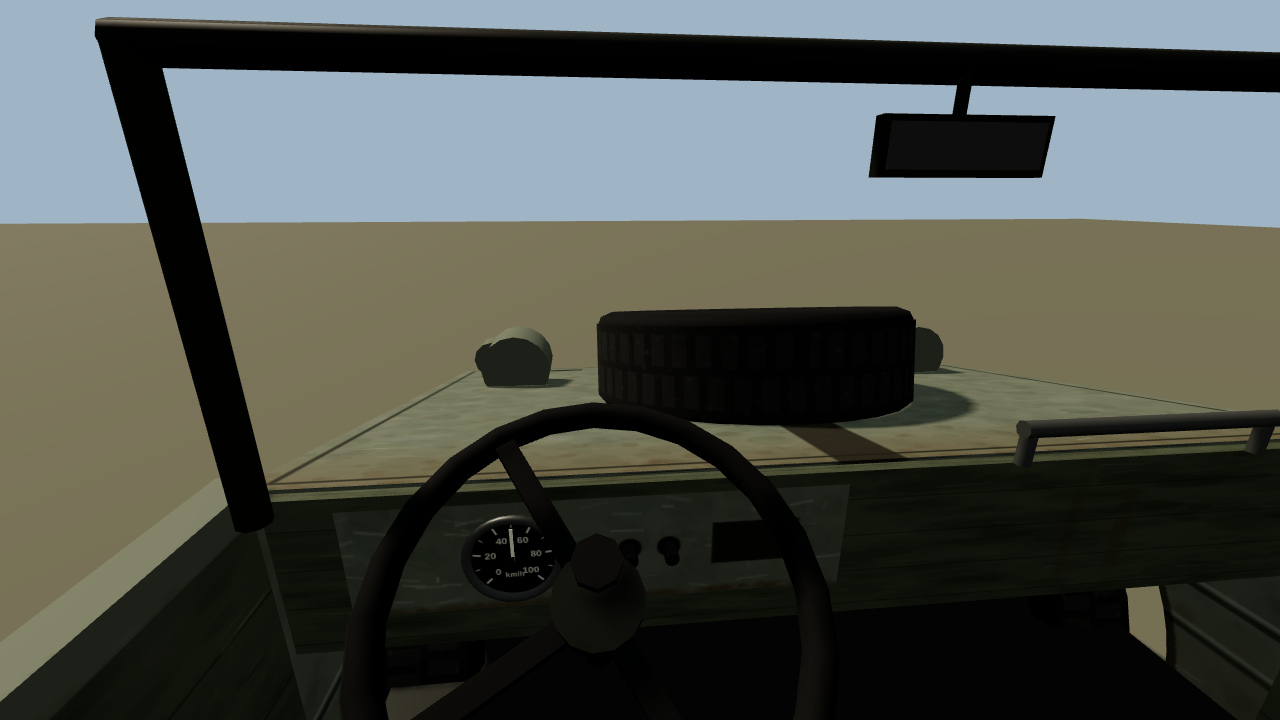
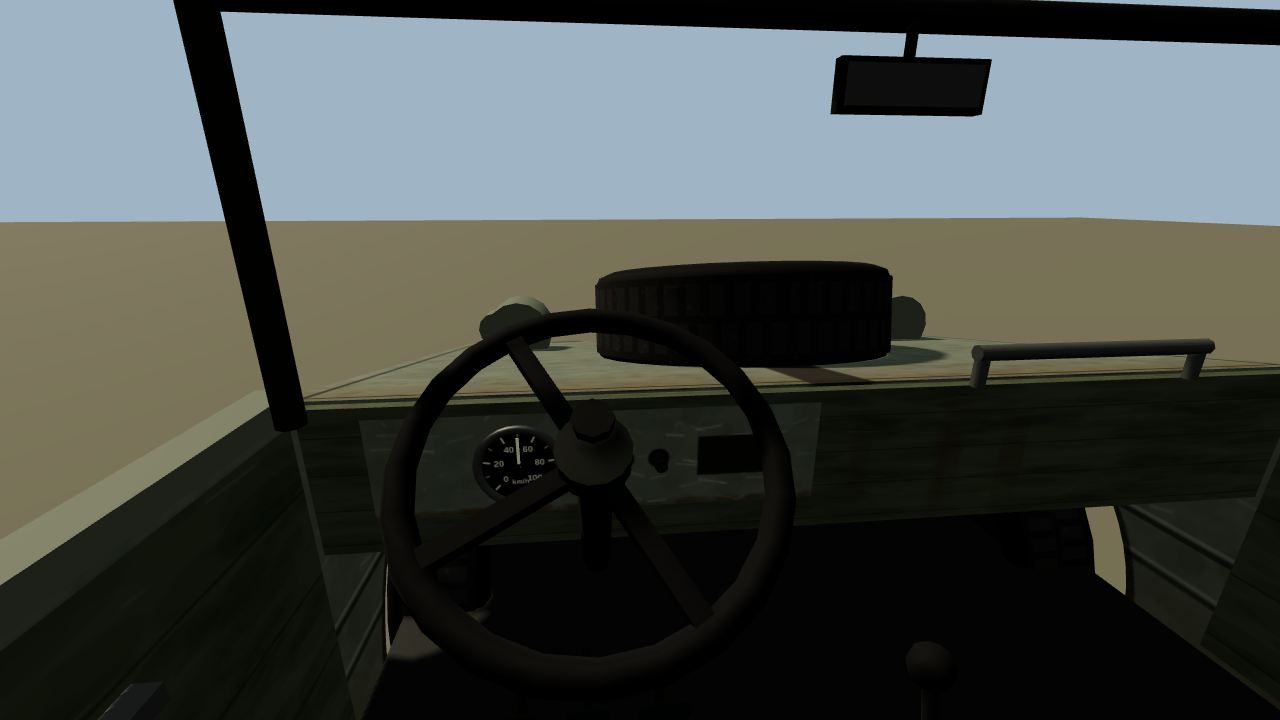
Interieurs nagelopen: de ambulance met het stuur vóór je, de bus zonder balk door de voorruit, een ronde pook, spiegelglas, de stafauto verder van het stuur; binnentest en binnenshots (stap 146)
Claude-Session: https://claude.ai/code/session_01Qq4V9hLBj33ACehDrT6xv8

diff --git a/js/carmodel.js b/js/carmodel.js
@@ -424,7 +424,12 @@ function autoGeoms(kind) {
      te herkennen is. Een negatieve kanteling om de x-as zet de voorkant omlaag
      (y' = z·sin θ voor de voorste rand op −z).
     */
-    { geo: rdoos(W - 0.20, 0.11, kapL, 0.05), y: schouderY + (bus ? 0.30 : (bx ? -0.02 : 0.02)), z: kapZ, rx: bx ? -0.085 : 0 }, // motorkap
+    /*
+     (stap 146) De bus had zijn motorkap op schouderY + 0,30 (1,80 m): 30 cm boven de onderrand van de voorruit, dus van
+     binnen lag er een blauwe balk dwars door de voorruit, en van buiten dekte hij het onderste stuk glas af. Nu ligt hij
+     net als bij de andere auto's net boven de schouderlijn.
+    */
+    { geo: rdoos(W - 0.20, 0.11, kapL, 0.05), y: schouderY + (bus ? 0.04 : (bx ? -0.02 : 0.02)), z: kapZ, rx: bx ? -0.085 : 0 }, // motorkap
     { geo: rdoos(W - 0.14, 0.20, kontL, 0.07), y: schouderY + 0.09, z: kontZ },     // kofferklep
     /*
      Het dak. Het was W − 0,40 breed (1,38 m) terwijl de zijruiten op ±0,79
@@ -1090,8 +1095,14 @@ function ambulanceGeoms() {
   const hubGeo = naafGeo(R);
 
   // de maten voor het interieur (js/autobinnen.js); de bestuurder zit hoog, zoals in een bus
-  const schouderY = 1.34, cabDak = 2.04, cabZ = -1.42, cabL = 1.20;
-  const oog = { x: -(W / 2 - 0.56), y: 1.86, z: -1.30 };
+  /*
+   (stap 146) De cabine was hier 1,20 m lang, terwijl js/autobinnen.js het stuur op cabZ − cabL/2 + 0,565 zet en de
+   bestuurder op cabZ + 0,04: het stuur stond 16 cm voor je ogen en 71° onder de horizon, onder je kin, en recht vooruit
+   kijkend zag je geen dashboard. Met 2,15 m staat het dashboard op 1,85 (waar de voorruit op schouderhoogte begint) en
+   het stuur 55 cm voor je, net als in de andere auto's.
+  */
+  const schouderY = 1.34, cabDak = 2.04, cabZ = -1.075, cabL = 2.15;
+  const oog = { x: -(W / 2 - 0.56), y: 1.70, z: cabZ + 0.04 };
   const maat = { L, W, R, dakY: cabDak, schouderY, flankY: 1.0, dorpelY: 0.62, cabZ, cabL, aHoek: 0.65, stijlH: cabDak - schouderY, oog, bus: true,
     // voor js/ambulance.js: waar de vlakke zijden, het dak, de motorkap en de achterdeuren liggen
     amb: { zijX, voorZ: voorV, achterZ: achterV, dakY: dakY + rand, dakVoorZ: -0.95, kapA: { z: voorZ + 0.18, y: 1.03 + rand }, kapB: { z: -2.04, y: 1.20 + rand },

diff --git a/js/autobinnen.js b/js/autobinnen.js
@@ -228,8 +228,16 @@ export function maakAutoBinnen(maat) {
   if (!maat.sport) {
     // console tussen de stoelen, met de pook erop
     doos(groep, M.kunststof, 0.30, 0.16, 0.58, 0, vloerY + 0.12, cabZ - 0.30);
-    doos(groep, M.zwart, 0.035, 0.20, 0.035, 0, vloerY + 0.28, cabZ - 0.40);
-    doos(groep, M.zwart, 0.055, 0.05, 0.055, 0, vloerY + 0.38, cabZ - 0.40);
+    /*
+     De pook (stap 146): een dunne ronde stang met een bol en een rubberen hoes, geen balkje van 3,5 cm in het vierkant
+     met een blokje erop: van de stoel af leek dat een stijl midden in de auto.
+    */
+    const hoes = new THREE.Mesh(new THREE.CylinderGeometry(0.022, 0.05, 0.07, 12), M.zwart);
+    hoes.position.set(0, vloerY + 0.235, cabZ - 0.40); groep.add(hoes);
+    const stang = new THREE.Mesh(new THREE.CylinderGeometry(0.009, 0.011, 0.15, 8), M.chroom);
+    stang.position.set(0, vloerY + 0.34, cabZ - 0.41); stang.rotation.x = -0.12; groep.add(stang);
+    const bol = new THREE.Mesh(new THREE.SphereGeometry(0.028, 14, 10), M.zwart);
+    bol.position.set(0, vloerY + 0.42, cabZ - 0.42); groep.add(bol);
     // handrem
     doos(groep, M.zwart, 0.035, 0.035, 0.24, 0.02, vloerY + 0.24, cabZ - 0.12, -0.35);
   }
@@ -315,6 +323,9 @@ export function maakAutoBinnen(maat) {
   const oogY = (maat.oog && maat.oog.y) || (schouderY + 0.27);
   const spiegelY = Math.min(hemelY - 0.03, Math.max(hemelY - 0.075, oogY + 0.10));
   doos(groep, M.zwart, 0.22, 0.065, 0.035, 0, spiegelY, voor + 0.02);
+  // (stap 146) het spiegelglas aan de kant van de bestuurder, een tikje schuin naar hem toe
+  const glasSp = new THREE.Mesh(new THREE.PlaneGeometry(0.2, 0.05), M.chroom);
+  glasSp.position.set(0, spiegelY, voor + 0.039); glasSp.rotation.y = -0.12; groep.add(glasSp);
   const klepY = Math.min(hemelY - 0.022, Math.max(hemelY - 0.035, oogY + 0.05));
   if (!maat.sport) for (const sx of [-1, 1]) {
     doos(groep, M.hemel, 0.36, 0.015, 0.16, sx * 0.34, klepY, voor + 0.08, -0.16);

diff --git a/js/nomercy5.js b/js/nomercy5.js
@@ -428,7 +428,9 @@ const STAF = {
   zij: { z0: -1.87, z1: 1.87, y0: 0.30, y1: 1.02 },      // het vlak waar het zijdoek overheen ligt
   riem: 0.98,                                             // de bovenrand van de kuip
   ruit: { z: -0.62, y0: 0.98, h: 0.46 },                  // de voorruit
-  oog: { x: -0.36, y: 1.32, z: -0.1 },                    // de ogen van de bestuurder (js/main.js zet daar de camera)
+  // de ogen van de bestuurder (js/main.js zet daar de camera); stap 146: 10 cm naar achter en 7 cm lager, anders stond het
+  // stuur op 32 cm onder je kin en viel de snelheidsmeter recht vooruit kijkend buiten beeld (tools/binnentest.mjs)
+  oog: { x: -0.36, y: 1.25, z: 0.0 },
 };
 function stafZijDoek() {
   const Z = STAF.zij, W = 1024, H = Math.round(W * (Z.y1 - Z.y0) / (Z.z1 - Z.z0));

diff --git a/CLAUDE.md b/CLAUDE.md
@@ -60,6 +60,7 @@ Deze gelden altijd, ook als ze niet opnieuw genoemd worden.
 | `js/interieur.js` | de woningen van binnen, inclusief tuin, radio en barbecue |
 | `js/politie.js` | sterren, onderscheppen, wegversperring, helikopter; sinds stap 144 dekking (aanvallers), `voetPunt` (de looproute dichtbij), `omsingel` (posten), `ramHandig`/`ramKlapNu` (rammen, `pakRam` voor js/main.js), insluiten, terug naar de auto (`eigenAuto`, `naarAuto`/`inAuto`, `weerInDeWagen`), `proefStil` en `proef` voor proeven |
 | `js/politieslim.js` | stap 144: de losse stukken van de slimmere politie — `verstop` (struik, bos, kroon, lantaarn), `zichtAfstand` (nacht 20, lantaarn 34, zaklamp 32, regen, struik 2,5 gehurkt), `struikOpLijn`, `zoekDekking`, `raakKans`, `ZoekGeheugen` (vakken van 20 m, vluchtrichting), `maakZaklamp` (het materiaal van het zoeklicht van de heli), alle getallen in `SLIM` |
+| `js/autobinnen.js` | het interieur van de auto waar je in zit (`maakAutoBinnen(maat)`, één schil voor alle soorten, de maten uit `autoMaat` in js/carmodel.js; de Ferrari met `sportBinnen`); sinds stap 146 een ronde pook en spiegelglas. Het stuur staat op cabZ − cabL/2 + 0,565 en de bestuurder op cabZ + 0,04: een nieuwe soort heeft een cabine van ~2 m nodig (`npm run binnentest`) |
 | `js/vehicles.js` | geparkeerde auto's, verkeer (over `gladPad`: gladde lijn, remmen voor de bocht, keren), rijgedrag, `voegToe()` |
 | `js/npc.js` | voetgangers en fietsers op wegvakken |
 | `js/audio.js` | (stap 127: `OPNAMES` — explosie, heli, portofoon — als buffers via `laadOpnames`; `ACHTERGROND` sinds stap 139 één streamend element, `stad.mp3`, heel zacht, buiten de stad en 's nachts zachter, in `achtergrond`; stap 139: de garand met een eigen opname (`SCHOT.garand.url`, alleen het eerste schot, `terug` zonder opname) en de ping van de clip als opname (`M1_CLIP`, synthetisch als terugval), via `laadWapenOpnames` en `knipOpname`; `politieRadio` bij de eerste ster, `POLITIE_RADIO`; `heliRond` voor de heli van Wiebe; `vuurwerk`) alles synthetisch, plus het muziekje van de intro in de heli van missie 18 (`heliMuziek(actief)`, `HELI_MUZIEK`: 4 s aanzwellen, 7 s uit, stap 119), de mp3-radio (`autoradio(actief, sterkte)`) en het schot als opname (`schot(afstand, { wapen, bron })`, `SCHOT` per wapen, afkappen per bron, `zetSchotSoort`) |
@@ -383,7 +384,7 @@ uit gaat) en naast de voordeur een **oprit** waar je auto blijft staan.
 
 Er is één `npm run <naam>test` en meestal een `<naam>shots` per onderwerp; ze
 staan allemaal in `tools/` en draaien via Playwright op een headless Chromium.
-De laatste die ertoe doen: `npm run politieslimtest` (stap 144, 49 controles: het zicht als getal, verstoppen aan een echte struik en in het bos, de hud VERSTOPT, 's nachts de zaklamp, de raakkans, dekking gezocht en gebruikt zonder schot vanuit de dekking, gericht zoeken, een achtertuin via de looproute, terug naar de auto, rammen, insluiten, omsingelen, de zaklamp vangt geen kogels, geen nieuwe shader) met `politieslimshots` (politie_dekking, politie_zaklamp, politie_verstopt); `npm run figurantentest` (stap 143: de stafauto in het bunkerdorp is het eigen model, de Duitsers van No Mercy 4 nooit door elkaar en ieder een eigen doel, rode flitsen zonder schade in No Mercy 4 en 5, een gewone Bewaking ongemoeid, het MG met schade 0); `npm run stafautotest` (stap 142, en sinds stap 145 het interieur: uit tot je erin zit, ogen, klok, stuur, panelen, naald, spiegel; de stafauto en het zijspan als eigen modellen — de userData voor js/vehicles.js, de maten, de wielen op de grond, het zijdoek over de zijplaat, de materiaalregels, de kap de goede kant op, het reservewiel; laadt alleen js/nomercy5.js) met `stafautoshots` (drie foto's, eigen zon op een lege pagina); `npm run nomercy5test` (stap 142: No Mercy 5 — pas na missie 12 en No Mercy 4, de EJ en één melding en nooit een telefoon, de plekken gemeten (kade, water, MG-nest, posten, vlag, de stelling, de route zonder keerpunt), de nacht, de bruikleen, varen met de camera-boot ernaast en op het water, het zoeklicht, de molen met 1–3 treffers zonder schade, de vlag, de rit met een automaat (camera-auto op de weg, zijspannen, geen Cut), de wrap, de première, beide keuzes met opslaan en laden, drie soorten Cut, opruimen bij mislukken, neergaan, X, laden en een nieuwe missie, shift+komma, de tussenpoos, geen nieuwe shader) met `nomercy5shots` (vier foto's); `npm run postbodetest` (stap 141: de postbode alleen 8–11:30 en bij de speler, minstens drie deuren, stil bij de deur met arm en envelop, de klep, elk beeld buiten de botsdozen en panden en geen stap door een muur, nooit in beeld ontstaan of verdwijnen, raken/aanrijden/schrikken en de volgende ochtend terug, geen nieuwe shader) met `postbodeshots` (`postbode.png`); `npm run nomercy2test` (stap 141: No Mercy 4, het bunkerdorp — de plek gemeten tegen bomen, water, grond en botsdozen, sluipen achter de schildwachten langs, de kaart, het luchtalarm, zes figuranten zonder schade, de radiopost, de close-up waar bewegen niet telt, het klapbord, beide keuzes met opslaan en laden, gezien en gehoord zonder herstart, een eigen M1, de grens vanaf het kamp, opruimen, geen nieuwe shader) met nomercy_kamp, nomercy_radio en nomercy_klapbord in `nomercyshots`; `npm run nomercytest` (stap 140: No Mercy 4 — het EJ-speldje na missie 5, het telefoontje na 30 s en niet tijdens een klus, de bruikleen, de set gemeten tegen bomen en botsdozen, de cameraman < 8 m, de knal, Duitsers die schieten zonder schade en neergaan na hun eigen 1–3 treffers, het bos uit, sinds stap 141 "nu de tweede take!" en het bunkerdorp in (het einde en een eigen M1 staan in nomercy2test), opruimen bij mislukken, neergaan, X en laden, de tussenpoos, opslaan, geen nieuwe shader) met `nomercyshots` (drie foto's); `npm run m1geluidtest` (stap 139: de opnames van de M1 en de stad gemeten, gains, afstand, afkappen; laadt alleen js/audio.js, dus snel); `npm run droneklustest` en `npm run m1test` (stap 132: de drone-klus en de M1 Garand) met `droneklusshots` en `m1shots`; `npm run wensen5test` (stap 131: Martens Vishandel, pizza bezorgen, tennis, zeilbootjes, onweer, tuning met decals, Tinga Nieuws op de tv, aan de knoppen van Radio Tinga) met `wensen5shots` (vier foto's); `npm run wensen4test` (stap 130: missiemuziek 2 en de schuif, Ren Lenny Ren en de zender 100% NL, de muren van de rondweg en de grens op de N7, niet verdwijnen in beeld, paniek bij de inslag, de achtergrond per stad en nacht, de vlag naar missie 15–18, achtergelaten auto's terug, schieten op Bouwman in missie 15, aanval en flank bij de politie) met `wensen4shots` (één foto); `npm run wensen3test` (stap 129: spelen in volledig scherm als blijvende keuze, Kali uit het radiootje van missie 1 en op Radio Tinga, gele ringen onder de schutters, Wiebe, Mark en Johan schieten uit de auto, de Ferrari wendbaarder en harder remmen, meer verkeer, de ambulancebroeders te raken) met `wensen3shots` (één foto); `npm run wensen2test` (stap 128: achtergronden 75 % zachter, NaN geweigerd in een AudioParam, de mouw met een elleboog, rennen zonder schokken, shift-boost in auto en boot, geen oeverwanden in het water, de camera bij een boomstam, de uitleg thuis, Mark praat onderweg in missie 7 met de gele cirkel, de J of M vóór het telefoontje, missie 8 € 2.500, de boot over het water, ambulances en vrachtwagens, vuur van beneden met tracers, zwaailichten bij Bouwman, de loods op afstand) met `wensen2shots` (drie foto's); `npm run wensentest` (stap 127: de geluiden van de gebruiker, de heli met wapen en kogels die niet opraken, Bouwman harder, de handlangers, het zwaardere gevecht, het schudden op de Dúvelsrak en de route naar Radio Tinga, vuurwerk om tien uur, de Ferrari van binnen, je auto bij huis, voetbal met balbezit, de mouw achter de camera, de drone terug in bereik, volledig scherm, opgeslagen spellen, de vloer bij de BP) met `wensenshots` (zeven foto's); `npm run kleinwinsttest` (stap 126: het klokje, slapen tot de ochtend met Z, de minikaart op de drone, wisselend weer — geleidelijk, met de hand meteen, uit te zetten —, kliko's langs de vuilniswagen, twinkelende sterren; punt 9 en 10 staan in `huistest` en `verhaaltest`); `npm run tijdtest` (stap 125: de klok loopt vanaf het begin, 48 minuten per dag, T als schakelaar, de instellingen, een missie overdag en stil, wachten onder de M, laden zonder sprong, de nacht van de race, de vuilniswagen van Súdwest-Fryslân); `npm run dronetest` (stap 124: de drone — kopen, opslag, vliegen, gebouwen, de drie grenzen met OUT OF RANGE en tien tellen, kwijt, accu, E/B, foto, nooit een ster —, vogels in het water, meeuwen bij IJlst, sterren, ochtendmist, knipperlichten, joggers, vuilniswagen, terras, autoschade, remsporen, geen nieuwe shaders) met `droneshots` (negen foto's); `npm run zespuntentest` (stap 123: het mes — altijd, vanzelf bij alles leeg, een steek op 1,6 m raak en op 6 m niet, geen schot te horen —, de GTI, de uitleg bij de eerste ster en de grote kaart, de wapens van de anderen, oversteken in plaats van springen, missie opnieuw vanuit het pauzemenu) met `zespuntenshots` (drie foto's); `npm run naloop3test` (stap 122, missie 16–18 en het uitje nagelopen: laden tijdens de montage en het filmbeeld op het dek, na de montage buiten bij Mark en Johan, neergaan bij de loods en op de brug, het uitje dat niet meer vastloopt, auto's die niet stapelen, te voet op het dek na laden, de worst en de kluis van missie 17, niet opslaan net na een missie); `npm run naloop2test` (stap 121, missie 11–15 nagelopen: missie 12 klaar ook na neergaan in Marks gesprek, de hekken van missie 12 in de opslag en door naar de C4, het konvooi stapelt niet, laden ruimt het dek, de race en het volgen op, "Een paar dagen later" blijft zwart, laden na de finish of na het verliezen, laden midden in de race op de grid, neergaan in een race voor geld, mislukt zonder sterren); `npm run nalooptest` (stap 120, missie 6–10 nagelopen: de BX heel terug bij opnieuw beginnen en na een knal, missie 6 laden in een nieuwe sessie zonder tweede BX, missie 7 zonder muziek bij de M en zonder achtergebleven auto's, missie 8 opnieuw vanaf 'terug' in de sloep met de waterpolitie, opruimen bij laden, het herstelpunt in de opslag, missie 9 gezien/klus/knoppen/toonbank, neergaan sluit een gesprek); `npm run beginmissietest` (stap 119: missie 1 de man die opspringt en terugschiet, missie 2 Mark praat onderweg, missie 4 alarm, Mark bij de boerderij en € 500, missie 5 de dief langzamer te voet en de tuinen in voor een auto, het muziekje van de intro in de heli van missie 18 met fade in en fade out) met `beginmissieshots` (vijf foto's), en `npm run introtest` (sinds stap 119 ook het beeld bij VV Sneek: even lang als de Poiesz ervoor, een kraan, het bord van Radio Spannenburg, de wedstrijd in de film); `npm run opzettest` (de opzet voor een nieuwe speler: de besturing in het menu, Spel laden met datum, een onleesbare opslag, Start spel vraagt eerst, Opslaan in de pauze, een ander tabblad pauzeert, keuzeknoppen voor een aanraakscherm, een mislukte missie laadt niet je opslag, de uitleg bij het eerste checkpoint, geen voorwerpen in de rijbaan, geen 404; stap 118); `npm run opslagtest` (F5 niet in het menu, een gesprek of een filmbeeld; laden midden in een
+De laatste die ertoe doen: `npm run binnentest` (stap 146: het interieur van elke soort uit de ogen gemeten — het stuur vóór je, de klokken in beeld, vrij zicht door de voorruit, stuur en naald die meelopen, de pook) met `binnenshots` (binnen_<soort>.png, met `BUITEN=1` van buiten); `npm run politieslimtest` (stap 144, 49 controles: het zicht als getal, verstoppen aan een echte struik en in het bos, de hud VERSTOPT, 's nachts de zaklamp, de raakkans, dekking gezocht en gebruikt zonder schot vanuit de dekking, gericht zoeken, een achtertuin via de looproute, terug naar de auto, rammen, insluiten, omsingelen, de zaklamp vangt geen kogels, geen nieuwe shader) met `politieslimshots` (politie_dekking, politie_zaklamp, politie_verstopt); `npm run figurantentest` (stap 143: de stafauto in het bunkerdorp is het eigen model, de Duitsers van No Mercy 4 nooit door elkaar en ieder een eigen doel, rode flitsen zonder schade in No Mercy 4 en 5, een gewone Bewaking ongemoeid, het MG met schade 0); `npm run stafautotest` (stap 142, en sinds stap 145 het interieur: uit tot je erin zit, ogen, klok, stuur, panelen, naald, spiegel; de stafauto en het zijspan als eigen modellen — de userData voor js/vehicles.js, de maten, de wielen op de grond, het zijdoek over de zijplaat, de materiaalregels, de kap de goede kant op, het reservewiel; laadt alleen js/nomercy5.js) met `stafautoshots` (drie foto's, eigen zon op een lege pagina); `npm run nomercy5test` (stap 142: No Mercy 5 — pas na missie 12 en No Mercy 4, de EJ en één melding en nooit een telefoon, de plekken gemeten (kade, water, MG-nest, posten, vlag, de stelling, de route zonder keerpunt), de nacht, de bruikleen, varen met de camera-boot ernaast en op het water, het zoeklicht, de molen met 1–3 treffers zonder schade, de vlag, de rit met een automaat (camera-auto op de weg, zijspannen, geen Cut), de wrap, de première, beide keuzes met opslaan en laden, drie soorten Cut, opruimen bij mislukken, neergaan, X, laden en een nieuwe missie, shift+komma, de tussenpoos, geen nieuwe shader) met `nomercy5shots` (vier foto's); `npm run postbodetest` (stap 141: de postbode alleen 8–11:30 en bij de speler, minstens drie deuren, stil bij de deur met arm en envelop, de klep, elk beeld buiten de botsdozen en panden en geen stap door een muur, nooit in beeld ontstaan of verdwijnen, raken/aanrijden/schrikken en de volgende ochtend terug, geen nieuwe shader) met `postbodeshots` (`postbode.png`); `npm run nomercy2test` (stap 141: No Mercy 4, het bunkerdorp — de plek gemeten tegen bomen, water, grond en botsdozen, sluipen achter de schildwachten langs, de kaart, het luchtalarm, zes figuranten zonder schade, de radiopost, de close-up waar bewegen niet telt, het klapbord, beide keuzes met opslaan en laden, gezien en gehoord zonder herstart, een eigen M1, de grens vanaf het kamp, opruimen, geen nieuwe shader) met nomercy_kamp, nomercy_radio en nomercy_klapbord in `nomercyshots`; `npm run nomercytest` (stap 140: No Mercy 4 — het EJ-speldje na missie 5, het telefoontje na 30 s en niet tijdens een klus, de bruikleen, de set gemeten tegen bomen en botsdozen, de cameraman < 8 m, de knal, Duitsers die schieten zonder schade en neergaan na hun eigen 1–3 treffers, het bos uit, sinds stap 141 "nu de tweede take!" en het bunkerdorp in (het einde en een eigen M1 staan in nomercy2test), opruimen bij mislukken, neergaan, X en laden, de tussenpoos, opslaan, geen nieuwe shader) met `nomercyshots` (drie foto's); `npm run m1geluidtest` (stap 139: de opnames van de M1 en de stad gemeten, gains, afstand, afkappen; laadt alleen js/audio.js, dus snel); `npm run droneklustest` en `npm run m1test` (stap 132: de drone-klus en de M1 Garand) met `droneklusshots` en `m1shots`; `npm run wensen5test` (stap 131: Martens Vishandel, pizza bezorgen, tennis, zeilbootjes, onweer, tuning met decals, Tinga Nieuws op de tv, aan de knoppen van Radio Tinga) met `wensen5shots` (vier foto's); `npm run wensen4test` (stap 130: missiemuziek 2 en de schuif, Ren Lenny Ren en de zender 100% NL, de muren van de rondweg en de grens op de N7, niet verdwijnen in beeld, paniek bij de inslag, de achtergrond per stad en nacht, de vlag naar missie 15–18, achtergelaten auto's terug, schieten op Bouwman in missie 15, aanval en flank bij de politie) met `wensen4shots` (één foto); `npm run wensen3test` (stap 129: spelen in volledig scherm als blijvende keuze, Kali uit het radiootje van missie 1 en op Radio Tinga, gele ringen onder de schutters, Wiebe, Mark en Johan schieten uit de auto, de Ferrari wendbaarder en harder remmen, meer verkeer, de ambulancebroeders te raken) met `wensen3shots` (één foto); `npm run wensen2test` (stap 128: achtergronden 75 % zachter, NaN geweigerd in een AudioParam, de mouw met een elleboog, rennen zonder schokken, shift-boost in auto en boot, geen oeverwanden in het water, de camera bij een boomstam, de uitleg thuis, Mark praat onderweg in missie 7 met de gele cirkel, de J of M vóór het telefoontje, missie 8 € 2.500, de boot over het water, ambulances en vrachtwagens, vuur van beneden met tracers, zwaailichten bij Bouwman, de loods op afstand) met `wensen2shots` (drie foto's); `npm run wensentest` (stap 127: de geluiden van de gebruiker, de heli met wapen en kogels die niet opraken, Bouwman harder, de handlangers, het zwaardere gevecht, het schudden op de Dúvelsrak en de route naar Radio Tinga, vuurwerk om tien uur, de Ferrari van binnen, je auto bij huis, voetbal met balbezit, de mouw achter de camera, de drone terug in bereik, volledig scherm, opgeslagen spellen, de vloer bij de BP) met `wensenshots` (zeven foto's); `npm run kleinwinsttest` (stap 126: het klokje, slapen tot de ochtend met Z, de minikaart op de drone, wisselend weer — geleidelijk, met de hand meteen, uit te zetten —, kliko's langs de vuilniswagen, twinkelende sterren; punt 9 en 10 staan in `huistest` en `verhaaltest`); `npm run tijdtest` (stap 125: de klok loopt vanaf het begin, 48 minuten per dag, T als schakelaar, de instellingen, een missie overdag en stil, wachten onder de M, laden zonder sprong, de nacht van de race, de vuilniswagen van Súdwest-Fryslân); `npm run dronetest` (stap 124: de drone — kopen, opslag, vliegen, gebouwen, de drie grenzen met OUT OF RANGE en tien tellen, kwijt, accu, E/B, foto, nooit een ster —, vogels in het water, meeuwen bij IJlst, sterren, ochtendmist, knipperlichten, joggers, vuilniswagen, terras, autoschade, remsporen, geen nieuwe shaders) met `droneshots` (negen foto's); `npm run zespuntentest` (stap 123: het mes — altijd, vanzelf bij alles leeg, een steek op 1,6 m raak en op 6 m niet, geen schot te horen —, de GTI, de uitleg bij de eerste ster en de grote kaart, de wapens van de anderen, oversteken in plaats van springen, missie opnieuw vanuit het pauzemenu) met `zespuntenshots` (drie foto's); `npm run naloop3test` (stap 122, missie 16–18 en het uitje nagelopen: laden tijdens de montage en het filmbeeld op het dek, na de montage buiten bij Mark en Johan, neergaan bij de loods en op de brug, het uitje dat niet meer vastloopt, auto's die niet stapelen, te voet op het dek na laden, de worst en de kluis van missie 17, niet opslaan net na een missie); `npm run naloop2test` (stap 121, missie 11–15 nagelopen: missie 12 klaar ook na neergaan in Marks gesprek, de hekken van missie 12 in de opslag en door naar de C4, het konvooi stapelt niet, laden ruimt het dek, de race en het volgen op, "Een paar dagen later" blijft zwart, laden na de finish of na het verliezen, laden midden in de race op de grid, neergaan in een race voor geld, mislukt zonder sterren); `npm run nalooptest` (stap 120, missie 6–10 nagelopen: de BX heel terug bij opnieuw beginnen en na een knal, missie 6 laden in een nieuwe sessie zonder tweede BX, missie 7 zonder muziek bij de M en zonder achtergebleven auto's, missie 8 opnieuw vanaf 'terug' in de sloep met de waterpolitie, opruimen bij laden, het herstelpunt in de opslag, missie 9 gezien/klus/knoppen/toonbank, neergaan sluit een gesprek); `npm run beginmissietest` (stap 119: missie 1 de man die opspringt en terugschiet, missie 2 Mark praat onderweg, missie 4 alarm, Mark bij de boerderij en € 500, missie 5 de dief langzamer te voet en de tuinen in voor een auto, het muziekje van de intro in de heli van missie 18 met fade in en fade out) met `beginmissieshots` (vijf foto's), en `npm run introtest` (sinds stap 119 ook het beeld bij VV Sneek: even lang als de Poiesz ervoor, een kraan, het bord van Radio Spannenburg, de wedstrijd in de film); `npm run opzettest` (de opzet voor een nieuwe speler: de besturing in het menu, Spel laden met datum, een onleesbare opslag, Start spel vraagt eerst, Opslaan in de pauze, een ander tabblad pauzeert, keuzeknoppen voor een aanraakscherm, een mislukte missie laadt niet je opslag, de uitleg bij het eerste checkpoint, geen voorwerpen in de rijbaan, geen 404; stap 118); `npm run opslagtest` (F5 niet in het menu, een gesprek of een filmbeeld; laden midden in een
 gesprek per missie, doorschuiven na missie 1–3, Johan na missie 4, missie 6, 8 en 9 midden, het geld van missie 7, checkpoints
 bij het begin van missie 2–6 en niet in een gesprek, een klus vóór missie 6, Doorgaan, shift + cijfer, blur; stap 117); `npm run ramentest` (de ramen 's avonds van dichtbij, oud tegen nieuw op dezelfde gevel: evenveel licht,
 minder harde sprongen, een kortere rand; maakt ramen_oud.png en ramen_nieuw.png; stap 116); `npm run uitjetest` (na het einde de M bij Molenkrite 15: de keuze, de wedstrijd op het

diff --git a/docs/METHODIEK.md b/docs/METHODIEK.md
@@ -8722,6 +8722,36 @@ de ruitrand van 1,44, de klok op 0,69 m vóór je, het stuur recht voor je, de p
 stuuruitslag van 0,4, de naald halverwege bij 50 km/u, de spiegel boven je ogen, 27 meshes met de materiaalregels), alles goed.
 Foto: `npm run stafautoshots` maakt nu ook nomercy5_stafauto_binnen.png.
 
+**De interieurs van alle auto's nagelopen (stap 146, 13 okt).**
+
+Gevraagd: "Kijk daarna ook naar de interieurs van de andere auto's of je die kan verbeteren." `npm run binnenshots` maakt van
+elke soort een foto uit de ogen van de bestuurder (alleen de modellen op een lege pagina); de vuilniswagen is niet te besturen en
+heeft er dus geen nodig. Gemeten (het stuur en de klokken ten opzichte van de ogen, en stralen recht vooruit) en gevonden:
+
+- *De ambulance*: het stuur stond 16 cm voor je ogen en 71° omlaag, de klokken 61°: recht vooruit kijkend geen dashboard. js/autobinnen.js
+  zet het stuur op cabZ − cabL/2 + 0,565 en de bestuurder op cabZ + 0,04, en de cabine van de ambulance was in zijn maten maar
+  1,20 m. Nu 2,15 m (cabZ −1,075; het dashboard op 1,85, waar de voorruit op schouderhoogte begint) en de ogen op 1,70: het stuur
+  0,55 m en 34° omlaag, als in de andere auto's. De buitenkant hangt niet aan die maten.
+- *De bestelbus*: zijn motorkap lag op schouderY + 0,30 = 1,80 m, terwijl de voorruit op 1,50 begint: een balk dwars door de
+  voorruit, en van buiten dekte hij het onderste stuk glas af. Nu schouderY + 0,04.
+- *De pook*: een balkje van 3,5 cm in het vierkant met een blokje erop, dat vanaf de stoel als een stijl midden in de auto stond.
+  Nu een ronde stang met een bol en een hoes. De binnenspiegel kreeg glas.
+- *De stafauto*: het stuur stond op 32 cm en 43° omlaag en de snelheidsmeter recht vooruit kijkend buiten beeld; de ogen staan nu
+  10 cm verder naar achter en 7 cm lager (`STAF.oog`, 1,25 m).
+
+Niet gedaan: benen onder het stuur. De cabines zijn samengedrukt (in de hatchback ligt de zitting hoger dan de onderkant van het
+stuur), dus benen zouden plat liggen of door het stuur steken.
+
+*Wat misging.* De eerste versie van de proef telde elk stuk carrosserie in de kijklijn als een balk, ook de lange motorkap van de
+Ferrari onder de raamlijn; nu alleen wat meer dan 10 cm boven de raamlijn ligt (de balk van de bus lag er 30 cm boven).
+`npm run autoechttest` is rood op één controle ("zeven meshes per auto": het zijn er acht), ook zonder deze ronde: dat stamt van
+een eerdere stap; de raamcontroles voor de bus zijn groen.
+
+*Proef*: `npm run binnentest` (acht soorten, 46 controles: een interieur dat uit staat tot je erin zit, het stuur 0,38–0,70 m vóór
+je en 20–40° omlaag, de klokken hoogstens 33° omlaag, vrij zicht door de voorruit, stuur en naald die meelopen, de pook), alles
+goed; `npm run stafautotest` blijft groen. Foto's: `npm run binnenshots` (binnen_hatch, _van, _bx, _gti, _truck, _ferrari,
+_ambulance; met `BUITEN=1` van buiten), en nomercy5_stafauto_binnen.png opnieuw.
+
 **Wat nog niet af is** (in volgorde).
 
 Van de vijf punten die de gebruiker expliciet voor later had laten liggen zijn er

diff --git a/README.md b/README.md
@@ -299,6 +299,18 @@ opening met de stijlen eromheen, alsof de ramen openstaan — en dat is precies
 wat je in een spel wilt. Ze komen terug zodra je uitstapt of naar de camera
 achter de auto gaat.
 
+**Elke soort nagelopen** (stap 146). In de **ambulance** stond het stuur onder je kin en zag je recht vooruit kijkend
+geen dashboard: nu zit je er net als in de andere auto's een halve meter achter. In de **bestelbus** lag de motorkap
+op 1,80 m, een blauwe balk dwars door de voorruit (ook van buiten dekte hij het glas af): nu ligt hij net boven de
+raamlijn. De **pook** is een dunne stang met een bol en een rubberen hoes, en de **binnenspiegel** heeft spiegelglas.
+In de **stafauto** zit je wat verder van het stuur, zodat de snelheidsmeter in beeld blijft.
+
+| Hatchback | Bestelbus | Ambulance |
+|---|---|---|
+| ![Hatchback](docs/screenshots/binnen_hatch.png) | ![Bestelbus](docs/screenshots/binnen_van.png) | ![Ambulance](docs/screenshots/binnen_ambulance.png) |
+| **BX** | **Vrachtwagen** | **Ferrari** |
+| ![BX](docs/screenshots/binnen_bx.png) | ![Vrachtwagen](docs/screenshots/binnen_truck.png) | ![Ferrari](docs/screenshots/binnen_ferrari.png) |
+
 ![Rijden vanuit de auto](docs/screenshots/auto_eerstepersoon.png)
 
 ## De wapens
